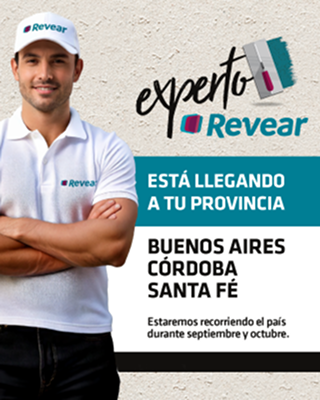
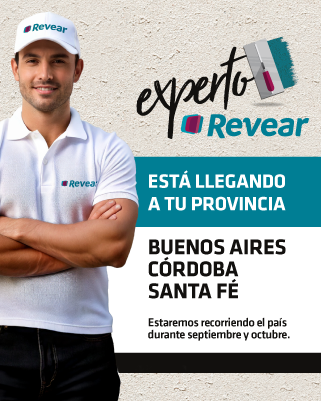
Imagenes en alta

diff --git a/components/home/Hero.vue b/components/home/Hero.vue
@@ -4,7 +4,6 @@
             <picture>
                 <source media="(min-width: 1440px)" srcset="/images/home/banners/Revear-Hero-DesktopXL.png" />
                 <source media="(min-width: 1080px)" srcset="/images/home/banners/Revear-Hero-Desktop.png" />
-                <source media="(min-width: 660px)" srcset="/images/home/banners/Revear-Hero-Tablet.png" />
                 <NuxtImg src="/images/home/banners/Revear-Hero-Mobile.png" alt="Experto Revear"
                     class="w-full object-cover" />
             </picture>
